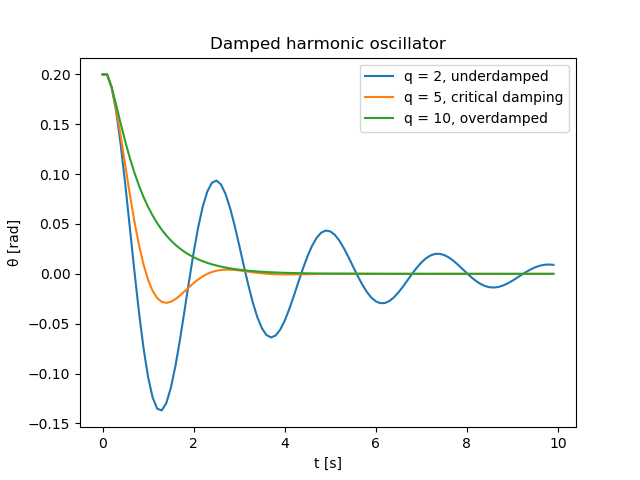
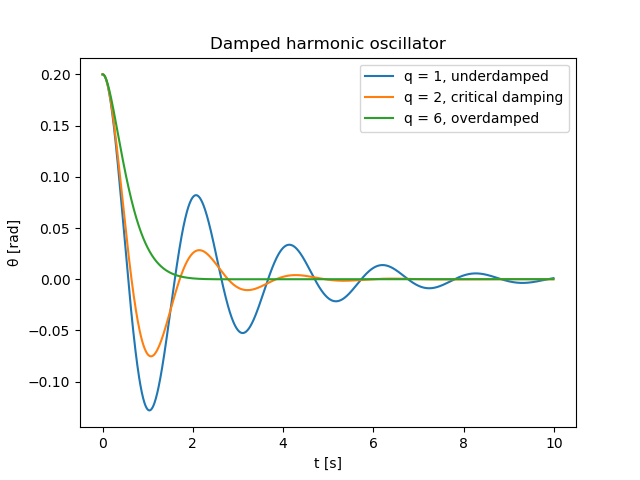
Version 0.6
Added work done by the friction

diff --git a/ex2.py b/ex2.py
@@ -4,13 +4,13 @@ import matplotlib.pyplot as plt
 import numpy as np
 import os
 
-t1, theta1 = Harmonic.damped(2)()
-t2, theta2 = Harmonic.damped(5)()
-t3, theta3 = Harmonic.damped(10)()
+t1, theta1, w1 = Harmonic.damped(1)()
+t2, theta2, w2 = Harmonic.damped(2)()
+t3, theta3, w3 = Harmonic.damped(6)()
 
-plt.plot(t1, theta1, label="q = 2, underdamped")
-plt.plot(t2, theta2, label="q = 5, critical damping")
-plt.plot(t3, theta3, label="q = 10, overdamped")
+plt.plot(t1, theta1, label="q = 1, underdamped")
+plt.plot(t2, theta2, label="q = 2, critical damping")
+plt.plot(t3, theta3, label="q = 6, overdamped")
 plt.xlabel("t [s]")
 plt.ylabel("θ [rad]")
 plt.title("Damped harmonic oscillator")
@@ -20,9 +20,23 @@ if not os.path.exists("plots"):
 plt.savefig("plots/damped_harmonic.png")
 plt.show()
 
-t1, theta1 = Harmonic.forced_damped(force=lambda t : F_D*np.sin(0.7*Omega_D*t))(stop=20)
-t2, theta2 = Harmonic.forced_damped(force=lambda t : F_D*np.sin(0.8*Omega_D*t))(stop=20)
-t3, theta3 = Harmonic.forced_damped(force=lambda t : F_D*np.sin(Omega_D*t))(stop=20)
+
+plt.plot(t1, w1, label="q = 2, underdamped")
+plt.plot(t2, w2, label="q = 5, critical damping")
+plt.plot(t3, w3, label="q = 10, overdamped")
+plt.xlabel("t [s]")
+plt.ylabel("W [J/m]")
+plt.title("Work done by damped harmonic oscillator")
+plt.legend()
+if not os.path.exists("plots"):
+    os.mkdir("plots")
+plt.savefig("plots/damped_harmonic_work.png")
+plt.show()
+
+
+t1, theta1, _ = Harmonic.forced_damped(force=lambda t : F_D*np.sin(0.7*Omega_D*t))(stop=20)
+t2, theta2, _ = Harmonic.forced_damped(force=lambda t : F_D*np.sin(0.8*Omega_D*t))(stop=20)
+t3, theta3, _ = Harmonic.forced_damped(force=lambda t : F_D*np.sin(Omega_D*t))(stop=20)
 
 
 

diff --git a/Harmonic.py b/Harmonic.py
@@ -23,7 +23,7 @@ class Harmonic:
     def forced_damped(cls, force = params.driving_force, friction=params.q):
         return cls(friction, force)
 
-    def __call__(self, step=0.1, stop=10, start=0):
+    def __call__(self, step=0.01, stop=10, start=0):
         def omega_prime(theta, omega, t):
             """
             :return: derivative of omega with respect to time at some point theta
@@ -60,5 +60,6 @@ class Harmonic:
             t4 = theta_prime(omega[i] + t3 * step)
             theta[i + 1] = theta[i] + (step / 6) * (t1 + 2 * t2 + 2 * t3 + t4)
 
-        return t, theta
+        work = 0.5*(omega*omega - params.omega0**2) + (params.g/params.l)*(theta*theta - params.theta0**2)
+        return t, theta, work
 
